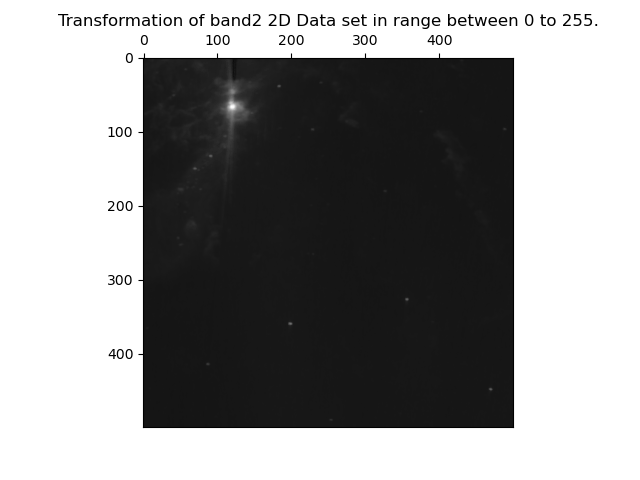
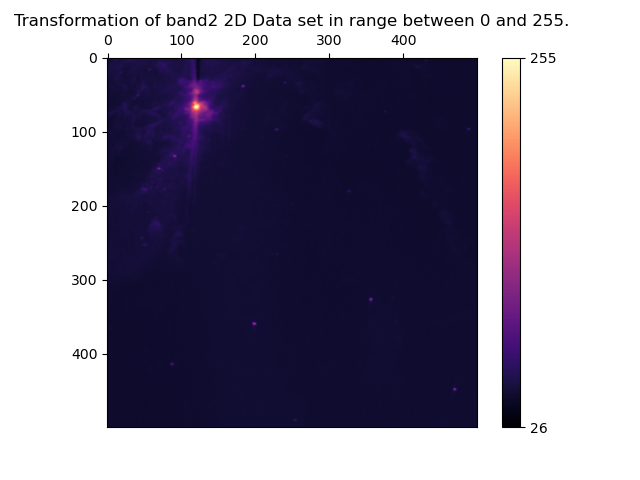
Added Colorbar to Transformation.

diff --git a/Assignments/Assignment 3/Equalization.py b/Assignments/Assignment 3/Equalization.py
@@ -3,6 +3,7 @@ import matplotlib.pyplot as plt
 from PIL import Image
 import matplotlib.cm as cm
 from math import log
+from collections import Counter
 
 rows, cols = (500, 500)
 (smin, smax) = (0, 255)
@@ -34,12 +35,7 @@ band3_1d = read_Data_From_File("./orion/i170b3h0_t0.txt")
 band3_2d = np.asarray(band3_1d).reshape(rows,cols)
 band4_1d = read_Data_From_File("./orion/i170b4h0_t0.txt")
 band4_2d = np.asarray(band4_1d).reshape(rows,cols)
-# plt.imshow(band1_2d)
-# plt.savefig("Band2.png")
-# plt.show()
-# print(band2_2d)
-# print(len(band2_2d))
-# Read the band2 data from fle end.
+# Read the band data from file end.
 
 # Calculate Max., Min., Mean and Varience value for Band2 start.
 maxValue = max(band2_1d)
@@ -69,24 +65,29 @@ print("Varience value = ",varianceValue)
 # Profile line through the Max. value of band2 data end.
 
 # Display Histogram of band2 Data start.
-# rlist = np.unique(band2_1d)
-# plt.plot(rlist,findAbsoluteOccurenceOfValue(rlist, band2_1d))
+# data = Counter(band2_1d)
+# plt.plot(list(data.keys()),list(data.values()))
 # plt.title('Histogram of band2 data set.')
-# plt.xlabel('Data value on x-axis.')
-# plt.ylabel('Count on y-axis.')
+# plt.xlabel('Data values on x-axis.')
+# plt.ylabel('Absolute Occurences on y-axis.')
 # plt.savefig("Histogram.png")
 # plt.show()
 # Display Histogram of band2 Data End.
 
 # Rescale values to range between 0 and 255 using transformation start.
-# constant = smax / log(maxValue + 1, 2)
+# constant = smax / (log(maxValue + 1, 2))
 # for m in range(rows):
     # for n in range(cols):
         # Trans[m][n] = (constant * (log(band2_2d[m][n] + 1, 2)))
-# plt.imshow(Trans, aspect= 'equal', cmap='gray')
-# plt.title('Transformation of band2 2D Data set in range between 0 to 255.')
-# ax1 = plt.gca()
-# ax1.xaxis.tick_top()
+# Trans_1d = np.asarray(Trans).flatten()
+# min_Trans = min(Trans_1d)
+# max_Trans = max(Trans_1d)
+# img = plt.imshow(Trans, aspect= 'equal', cmap= cm.get_cmap(name='magma'), vmin= min_Trans, vmax= max_Trans)
+# ax = plt.gca()
+# ax.xaxis.tick_top()
+# cb = plt.colorbar(img, orientation= 'vertical', ax= ax)
+# cb.set_ticks([min_Trans, max_Trans])
+# plt.title('Transformation of band2 2D Data set in range between 0 and 255.')
 # plt.savefig('Transformation.png')
 # plt.show()
 # Rescale values to range between 0 and 255 using transformation end.
@@ -139,52 +140,52 @@ def HistogramEqualization(r_arr, s_arr, oneD_Band):
                 oneD_Band[j] = s_arr[i]
     return oneD_Band
 
-fig, ((ax1, ax2), (ax3, ax4)) = plt.subplots(2, 2)
-
-r_band1 = find_Unique_Value(band1_1d)
-absoluteOccurence_band1 = find_Absolute_Occurence_OfValue(r_band1, band1_1d)
-relativeOccurence_band1 = find_Relative_Occurence_OfValue(absoluteOccurence_band1)
-CDF_band1 = calculate_CDF_Value(relativeOccurence_band1)
-s_band1 = calculate_S_Value_WithSmax(CDF_band1)
-hist_equ_band1 = np.asarray(HistogramEqualization(r_band1, s_band1, band1_1d)).reshape(rows,cols)
-ax1.imshow(hist_equ_band1, aspect= 'equal', cmap= cm.get_cmap(name='gray'))
-ax1.set_title('Histogram Equalization of Band1.')
-ax1.axis('off')
-print('band1')
-
-r_band2 = find_Unique_Value(band2_1d)
-absoluteOccurence_band2 = find_Absolute_Occurence_OfValue(r_band2, band2_1d)
-relativeOccurence_band2 = find_Relative_Occurence_OfValue(absoluteOccurence_band2)
-CDF_band2 = calculate_CDF_Value(relativeOccurence_band2)
-s_band2 = calculate_S_Value_WithSmax(CDF_band2)
-hist_equ_band2 = np.asarray(HistogramEqualization(r_band2, s_band2, band2_1d)).reshape(rows,cols)
-ax2.imshow(hist_equ_band2, aspect= 'equal', cmap= cm.get_cmap(name='gray'))
-ax2.set_title('Histogram Equalization of Band2.')
-ax2.axis('off')
-print('band2')
-
-r_band3 = find_Unique_Value(band3_1d)
-absoluteOccurence_band3 = find_Absolute_Occurence_OfValue(r_band3, band3_1d)
-relativeOccurence_band3 = find_Relative_Occurence_OfValue(absoluteOccurence_band3)
-CDF_band3 = calculate_CDF_Value(relativeOccurence_band3)
-s_band3 = calculate_S_Value_WithSmax(CDF_band3)
-hist_equ_band3 = np.asarray(HistogramEqualization(r_band3, s_band3, band3_1d)).reshape(rows,cols)
-ax3.imshow(hist_equ_band3, aspect= 'equal', cmap= cm.get_cmap(name='gray'))
-ax3.set_title('Histogram Equalization of Band3.')
-ax3.axis('off')
-print('band3')
-
-r_band4 = find_Unique_Value(band4_1d)
-absoluteOccurence_band4 = find_Absolute_Occurence_OfValue(r_band4, band4_1d)
-relativeOccurence_band4 = find_Relative_Occurence_OfValue(absoluteOccurence_band4)
-CDF_band4 = calculate_CDF_Value(relativeOccurence_band4)
-s_band4 = calculate_S_Value_WithSmax(CDF_band4)
-hist_equ_band4 = np.asarray(HistogramEqualization(r_band4, s_band4, band4_1d)).reshape(rows,cols)
-ax4.imshow(hist_equ_band4, aspect= 'equal', cmap= cm.get_cmap(name='gray'))
-ax4.set_title('Histogram Equalization of Band4.')
-ax4.axis('off')
-print('band4')
-
-plt.savefig("HistogramEqualization.png")
-plt.show()
+# fig, ((ax1, ax2), (ax3, ax4)) = plt.subplots(2, 2)
+# 
+# r_band1 = find_Unique_Value(band1_1d)
+# absoluteOccurence_band1 = find_Absolute_Occurence_OfValue(r_band1, band1_1d)
+# relativeOccurence_band1 = find_Relative_Occurence_OfValue(absoluteOccurence_band1)
+# CDF_band1 = calculate_CDF_Value(relativeOccurence_band1)
+# s_band1 = calculate_S_Value_WithSmax(CDF_band1)
+# hist_equ_band1 = np.asarray(HistogramEqualization(r_band1, s_band1, band1_1d)).reshape(rows,cols)
+# ax1.imshow(hist_equ_band1, aspect= 'equal', cmap= cm.get_cmap(name='gray'))
+# ax1.set_title('Histogram Equalization of Band1.')
+# ax1.axis('off')
+# print('band1')
+# 
+# r_band2 = find_Unique_Value(band2_1d)
+# absoluteOccurence_band2 = find_Absolute_Occurence_OfValue(r_band2, band2_1d)
+# relativeOccurence_band2 = find_Relative_Occurence_OfValue(absoluteOccurence_band2)
+# CDF_band2 = calculate_CDF_Value(relativeOccurence_band2)
+# s_band2 = calculate_S_Value_WithSmax(CDF_band2)
+# hist_equ_band2 = np.asarray(HistogramEqualization(r_band2, s_band2, band2_1d)).reshape(rows,cols)
+# ax2.imshow(hist_equ_band2, aspect= 'equal', cmap= cm.get_cmap(name='gray'))
+# ax2.set_title('Histogram Equalization of Band2.')
+# ax2.axis('off')
+# print('band2')
+# 
+# r_band3 = find_Unique_Value(band3_1d)
+# absoluteOccurence_band3 = find_Absolute_Occurence_OfValue(r_band3, band3_1d)
+# relativeOccurence_band3 = find_Relative_Occurence_OfValue(absoluteOccurence_band3)
+# CDF_band3 = calculate_CDF_Value(relativeOccurence_band3)
+# s_band3 = calculate_S_Value_WithSmax(CDF_band3)
+# hist_equ_band3 = np.asarray(HistogramEqualization(r_band3, s_band3, band3_1d)).reshape(rows,cols)
+# ax3.imshow(hist_equ_band3, aspect= 'equal', cmap= cm.get_cmap(name='gray'))
+# ax3.set_title('Histogram Equalization of Band3.')
+# ax3.axis('off')
+# print('band3')
+# 
+# r_band4 = find_Unique_Value(band4_1d)
+# absoluteOccurence_band4 = find_Absolute_Occurence_OfValue(r_band4, band4_1d)
+# relativeOccurence_band4 = find_Relative_Occurence_OfValue(absoluteOccurence_band4)
+# CDF_band4 = calculate_CDF_Value(relativeOccurence_band4)
+# s_band4 = calculate_S_Value_WithSmax(CDF_band4)
+# hist_equ_band4 = np.asarray(HistogramEqualization(r_band4, s_band4, band4_1d)).reshape(rows,cols)
+# ax4.imshow(hist_equ_band4, aspect= 'equal', cmap= cm.get_cmap(name='gray'))
+# ax4.set_title('Histogram Equalization of Band4.')
+# ax4.axis('off')
+# print('band4')
+# 
+# plt.savefig("HistogramEqualization.png")
+# plt.show()
 # Histogram equalization on each of the four bands end.
